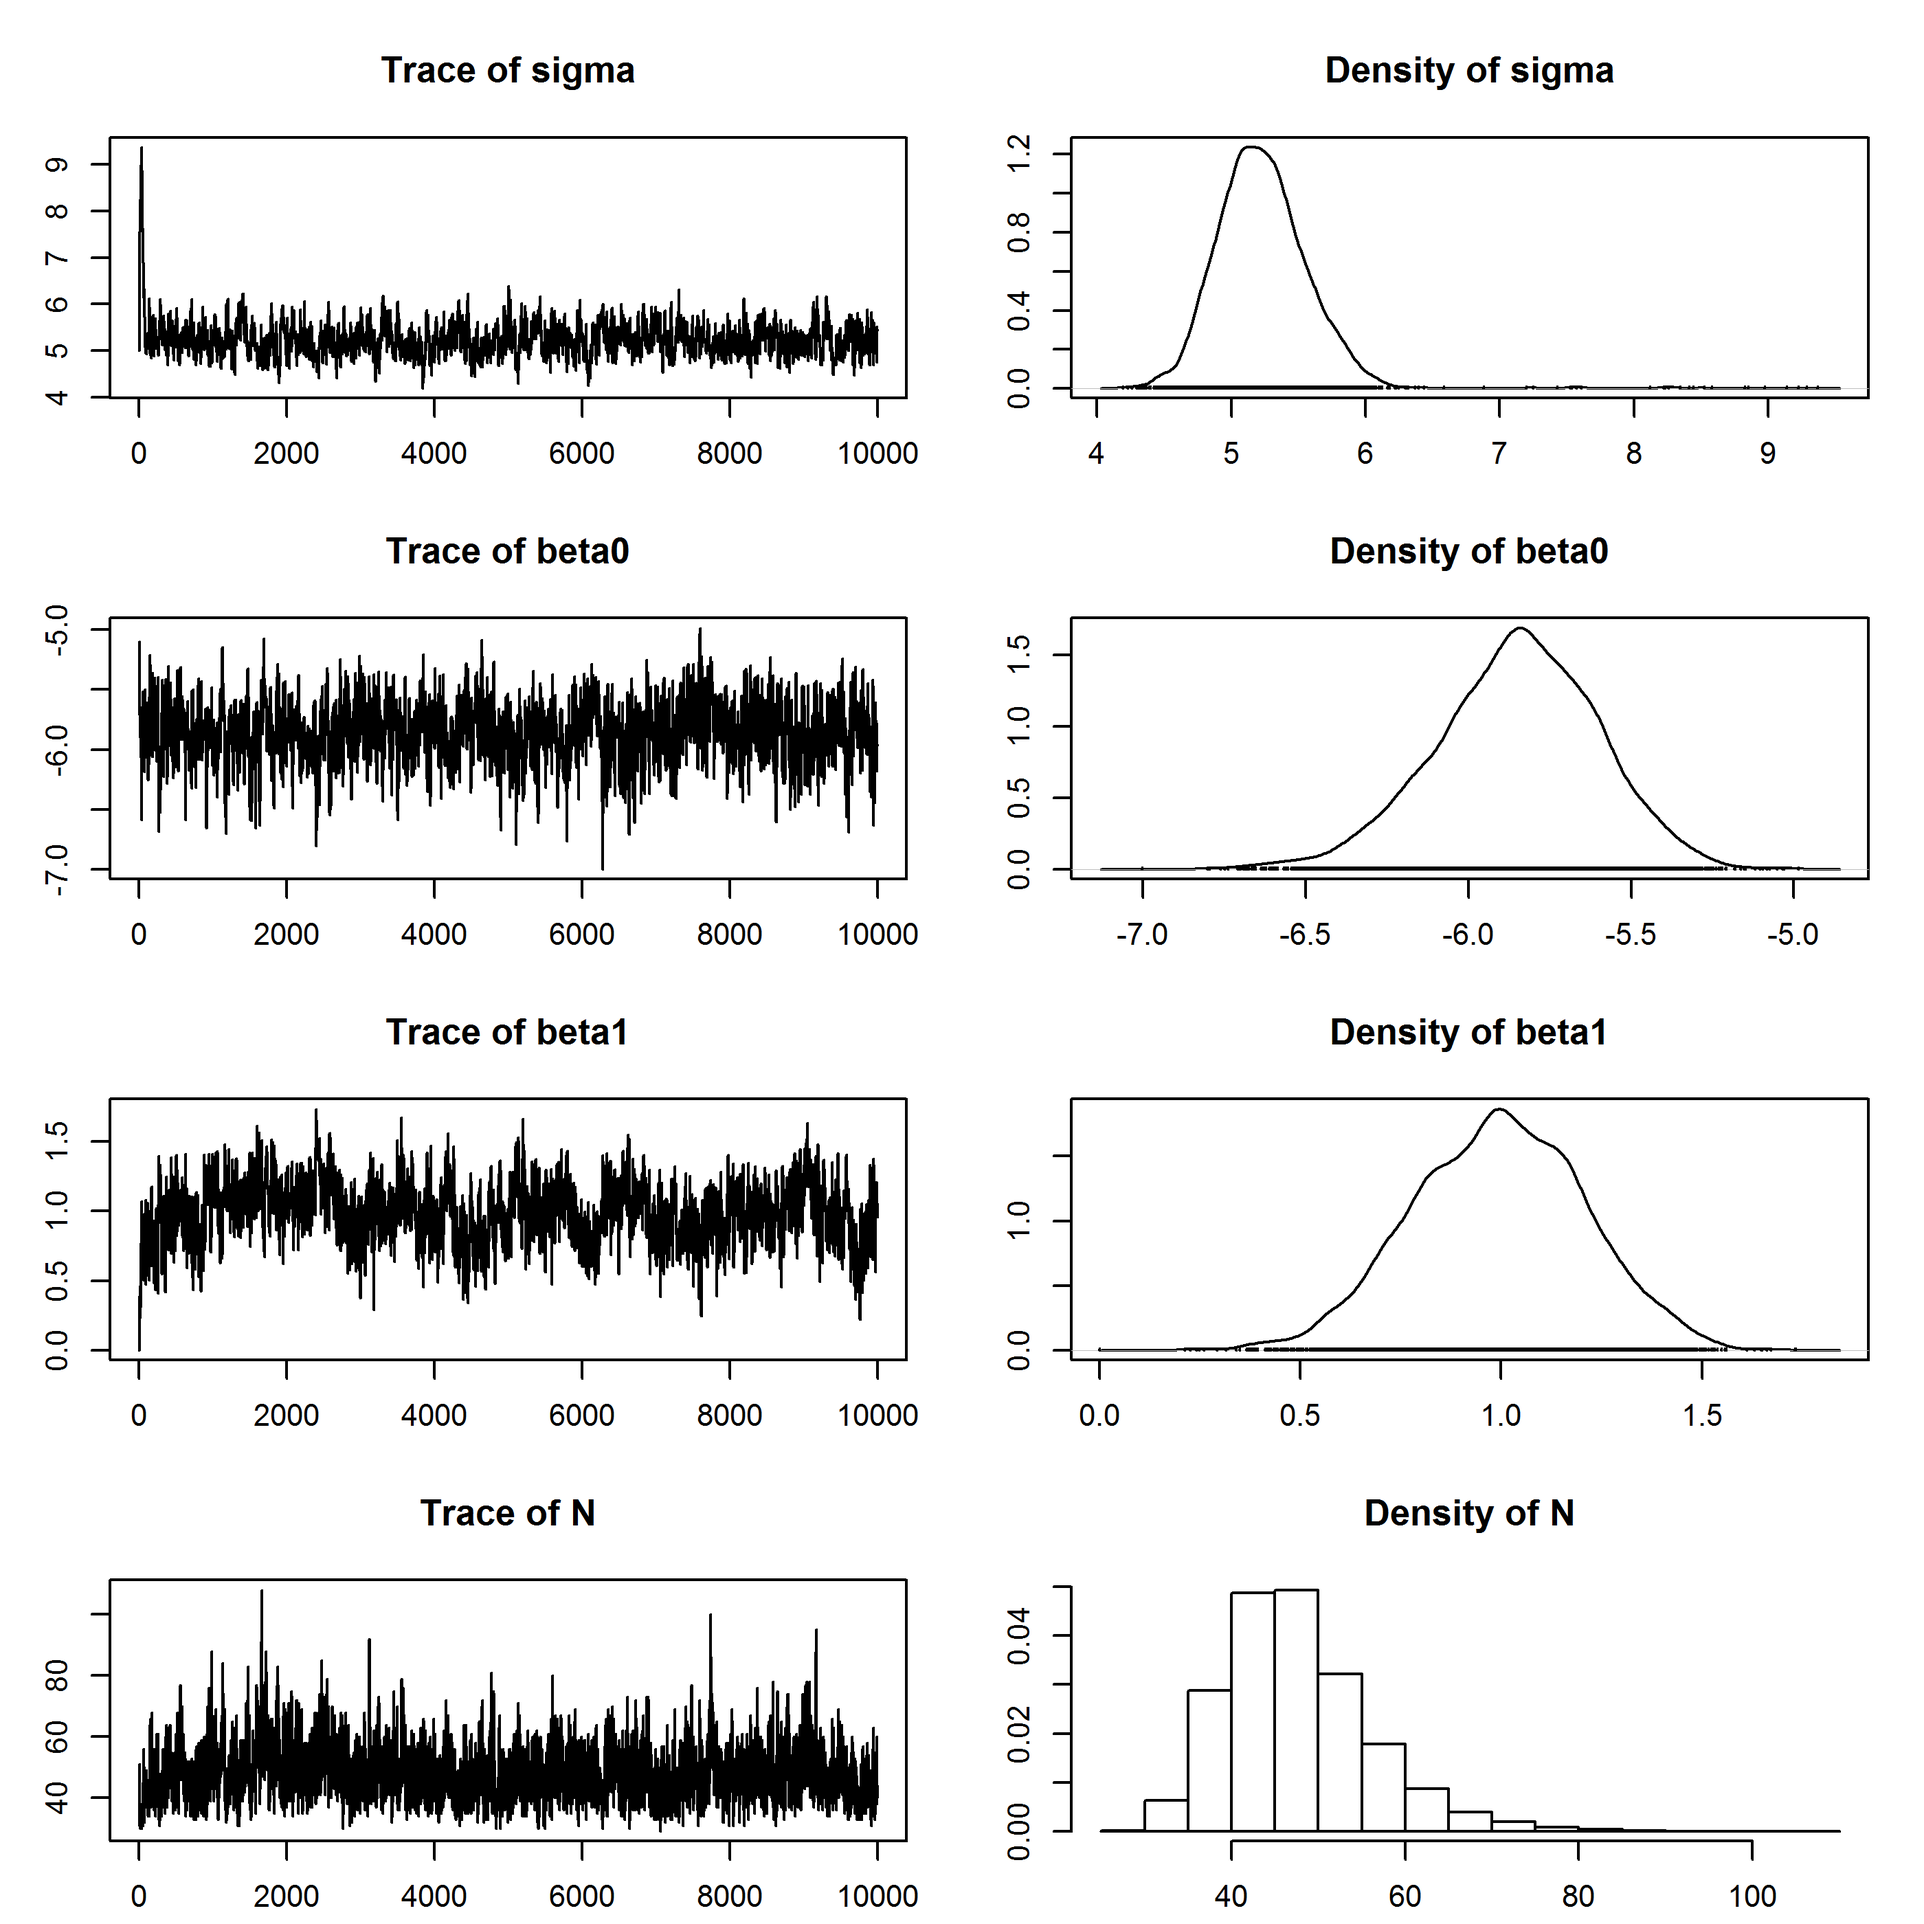
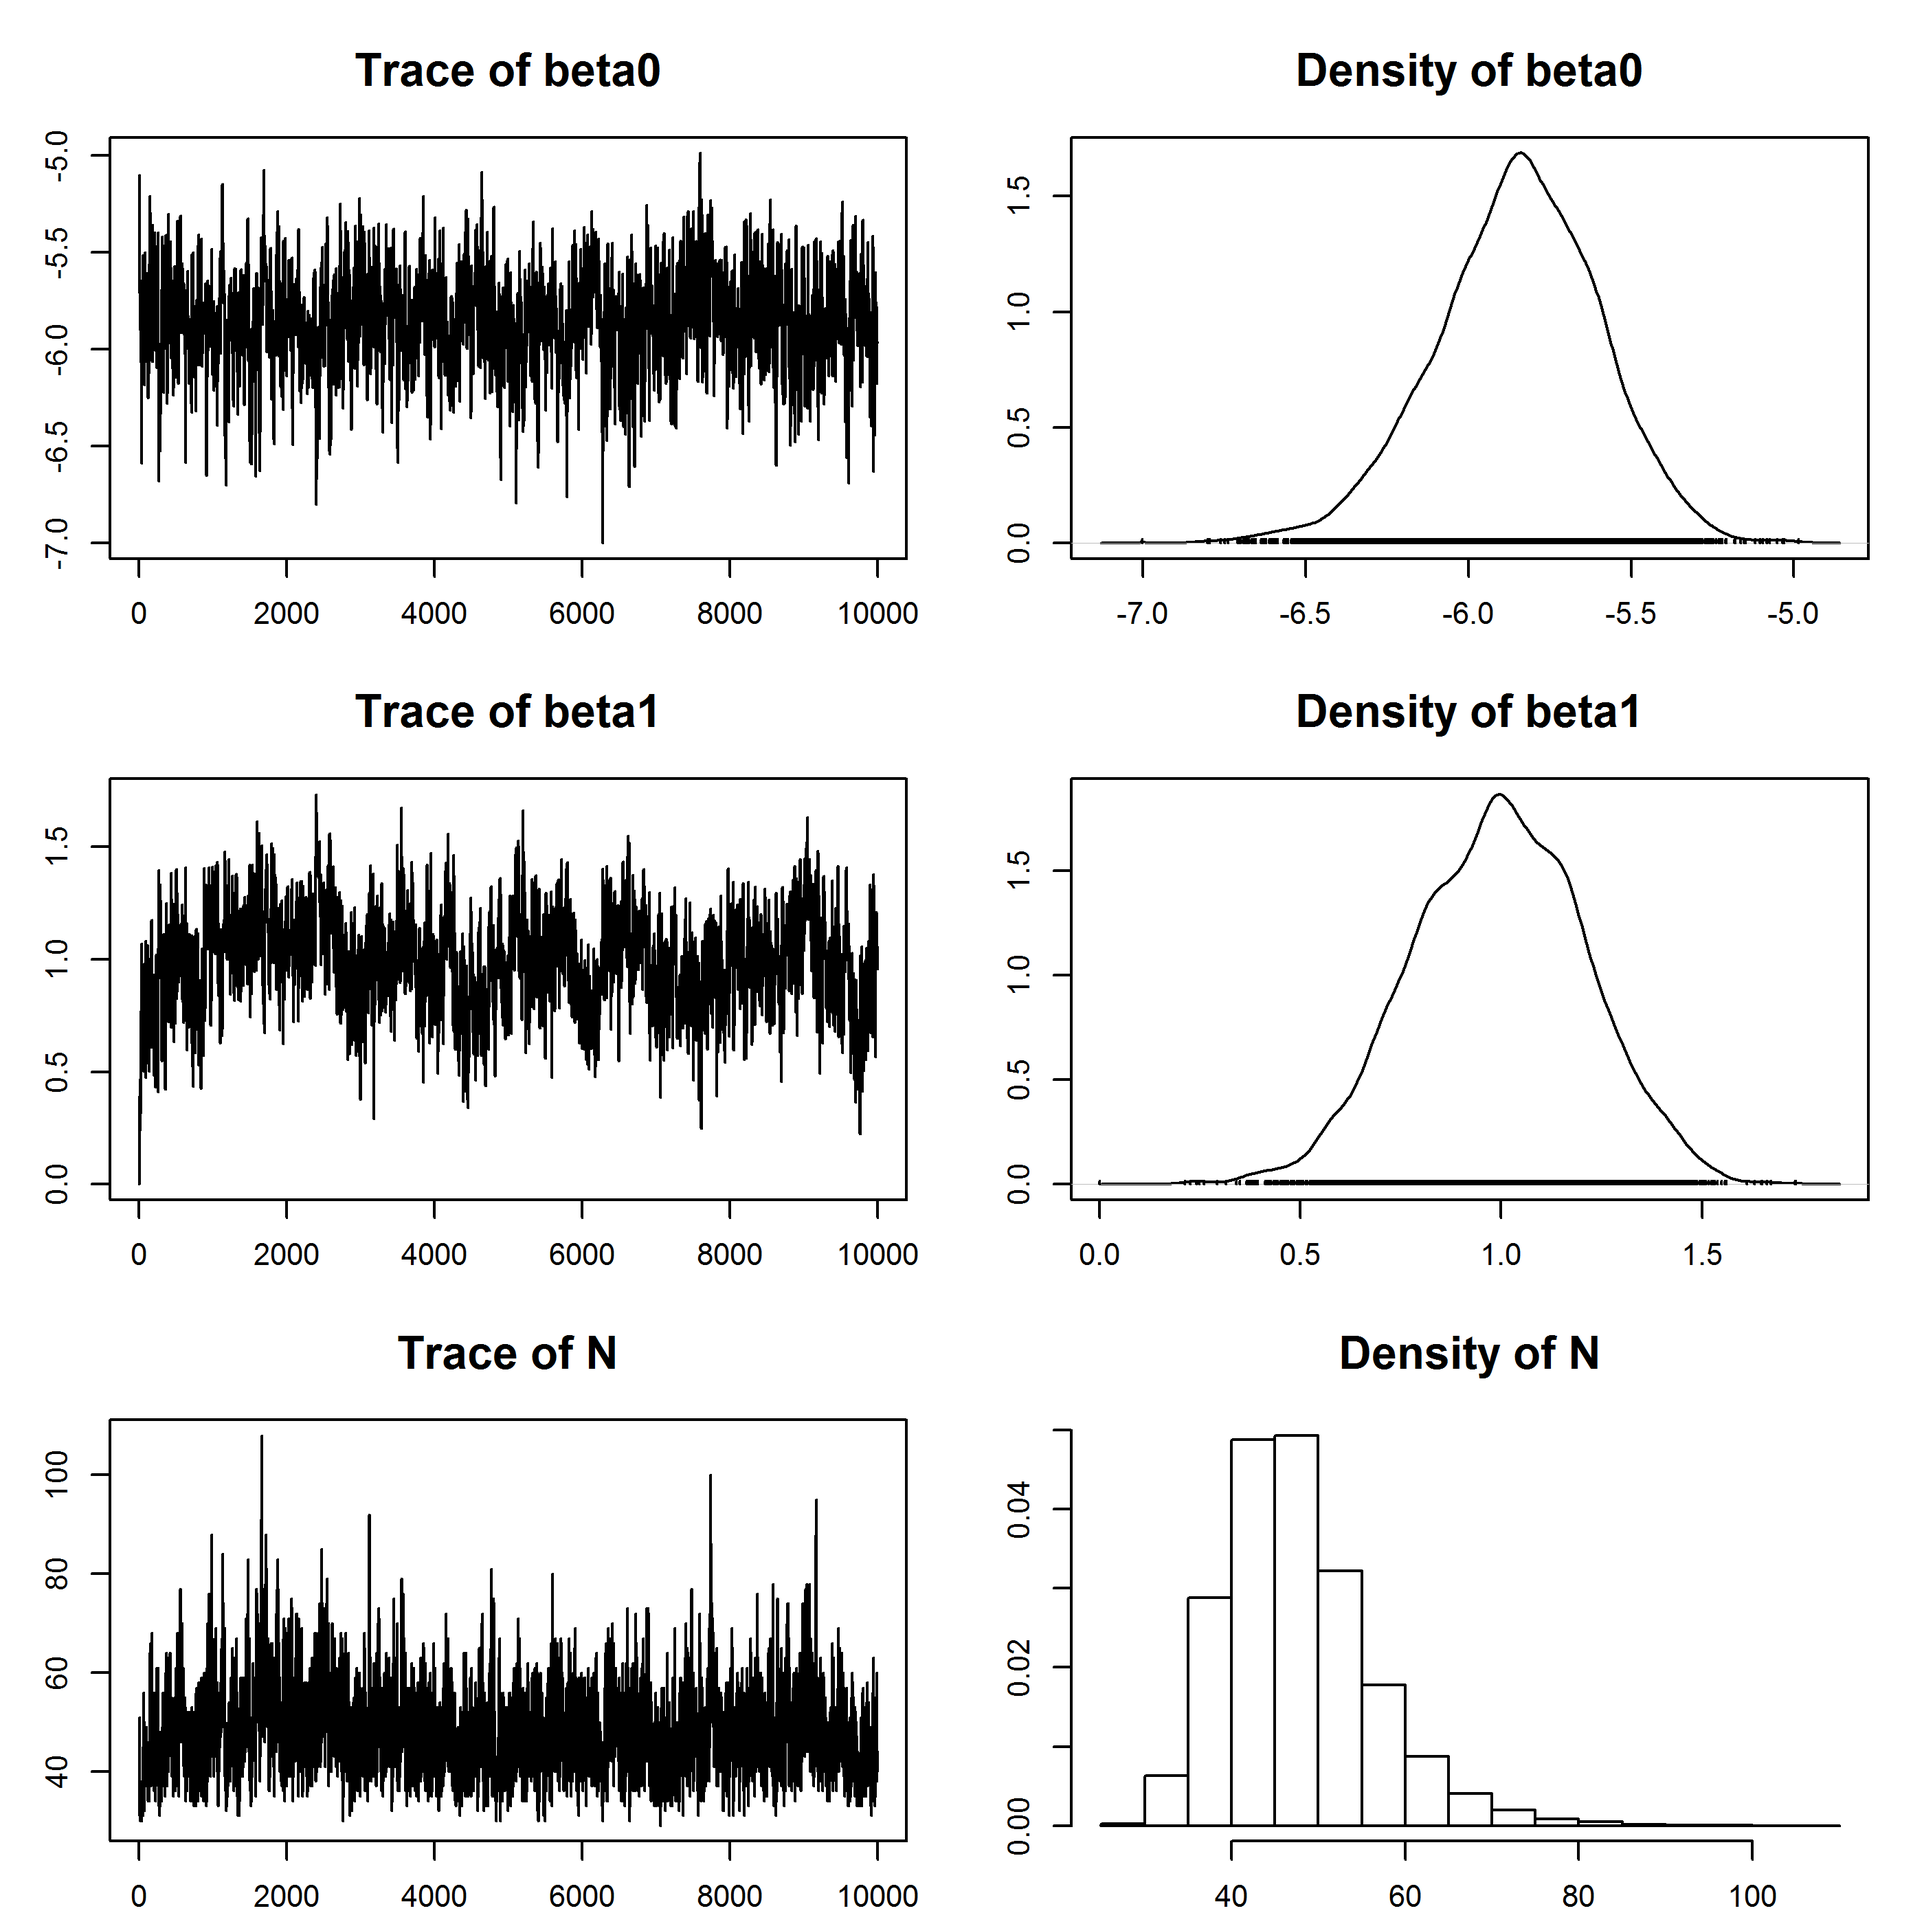
Ipp

diff --git a/Ch11/Ch11.tex b/Ch11/Ch11.tex
@@ -683,23 +683,24 @@ estimate these latent parameters.
 
 \subsection{Continuous space}
 
-One of the nice things about hierarchical models is that they
-%allow us to
-break a complex problem up into a series of simpler conditional
-sub-models. The problem faced in the analysis of SCR data is that the
-underlying point process is not observed, meaning that we need an
-observation model that describes how the observed data are result from
-the . Thus, in SCR, we can simply add the methods described above into a likelihood
-function or an MCMC algorithm to simulate the posterior distributions of $\beta$ conditional on the
-simulated values of $\mathbf{s}$. To demonstrate, we will continue with
-the previous example. Specifically, we will overlay a grid of
-traps on the map shown in Fig.~\ref{state-space.fig.hetero}. We will then
+% One of the nice things about hierarchical models is that they
+% %allow us to
+% break a complex problem up into a series of simpler conditional
+% sub-models. The problem faced in the analysis of SCR data is that the
+% underlying point process is not observed, and so an
+% observation model is needed to describe how the observed data result from
+% the latent activity centers. Thus, in SCR, we can simply add the methods described above into a likelihood
+% function or an MCMC algorithm to simulate the posterior distributions of $\beta$ conditional on the
+% simulated values of $\mathbf{s}$.
+
+In this example, we will use the same set of points simulated in the
+previous section to generate spatial capture-recapture
+data. Specifically, we overlay a grid of 49
+traps on the map shown in Fig.~\ref{state-space.fig.hetero} and
 simulate capture histories conditional upon the activity
 centers. Then, we will attempt to estimate the activity center
 locations as though we did not know where they were, as is the case in
-real applications.
-
-The following \R~code simulates encounter histories under a
+real applications. The following \R~code simulates encounter histories under a
 Poisson observation model (see Chapt. \ref{chapt.poisson-mn}), which could be appropriate in camera
 trapping studies or when using other methods in which animals could
 be detected multiple times at a trap during a single occasion.
@@ -707,106 +708,83 @@ be detected multiple times at a trap during a single occasion.
 \begin{samepage}
   \begin{small}
 \begin{verbatim}
-# Create trap locations
 xsp <- seq(20, 80, by=10)
 len <- length(xsp)
-X <- cbind(rep(xsp, each=len), rep(xsp, times=len))
-
-# Simulate capture histories, and augment the data
+X <- cbind(rep(xsp, each=len),
+           rep(xsp, times=len)) # trap locations
 ntraps <- nrow(X)
-K <- 5
-y <- array(NA, c(N, ntraps, K))
+K <- 5                          # occasions
+y <- array(NA, c(N, ntraps, K)) # capture data
 
-nz <- 80 # augmentation
+nz <- 80 # data augmentation
 M <- nz+nrow(y)
 yz <- array(0, c(M, ntraps, K))
-
-sigma <- 5  # half-normal scale parameter
+sigma <- 5  # scale parameter
 lam0 <- 1   # basal encounter rate
 lam <- matrix(NA, N, ntraps)
-
 set.seed(5588)
 for(i in 1:N) {
     for(j in 1:ntraps) {
+        # The object s was simulated in previous section
         distSq <- (s[i,1]-X[j,1])^2 + (s[i,2] - X[j,2])^2
         lam[i,j] <- exp(-distSq/(2*sigma^2)) * lam0
         y[i,j,] <- rpois(K, lam[i,j])
     }
 }
-table(y)
-c(N=N, n=sum(apply(y>0, 1, any)))
-yz[1:nrow(y),,] <- y # Fill
+yz[1:nrow(y),,] <- y # Fill data augmentation array
 \end{verbatim}
   \end{small}
 \end{samepage}
 
-Now that we have a simulated capture-recapture dataset $y$, and we have
-augmented it to create the new data object $yz$, we are ready to
+Now that we have a simulated capture-recapture dataset \texttt{y} and we have
+augmented it to create the new data object \texttt{yz}, we are ready to
 begin sampling from the posteriors. A commented Gibbs sampler written
 in \R~is available in the accompanying \R~package \scrbook~(see
-?scrIPP).
-\begin{comment} see Ch 7 MCMC for SCR and cite some section of that \end{comment}
-% There are two small parts of the
-% \R~code that distinguish it from previous code we have shown to
-% fit homogeneous point processes. First, we need to update the parameter
-% ${\bf \beta}$ conditional on all other parameters in the model. The code to
-% do so is: %\begin{comment} need cite to Ch 2 or 7 on MCMC for this \end{comment}
-% \begin{small}
-% \begin{verbatim}
-% # Denominator of f(x, beta). Integral of mu(x, beta) over space
-% D1 <- cuhre(2, 1, mu, lower=c(xlims[1], ylims[1]),
-%             upper=c(xlims[2], ylims[2]), beta=beta1)$value
-% # Compute the denominator again using a proposed beta1
-% beta1.cand <- rnorm(1, beta1, tune[3])
-% D1.cand <- cuhre(2, 1, mu, lower=c(xlims[1], ylims[1]),
-%                  upper=c(xlims[2], ylims[2]), beta=beta1.cand)$value
-% # Compute log(f(x))
-% ll.beta1 <- sum(  beta1*elev.fn.v(S) - log(D1) )
-% ll.beta1.cand <- sum( beta1.cand*elev.fn.v(S) - log(D1.cand) )
-% if(runif(1) < exp(ll.beta1.cand - ll.beta1) )  {
-%      beta1<-beta1.cand
-% }
-% \end{verbatim}
-% \end{small}
-% Next, we need to put the new prior on the activity centers:
-% \begin{small}
-% \begin{verbatim}
-% # Compute the prior for s_i and a candidate. denominator is constant
-% prior.S <- beta1*elev(S[i,1], S[i,2]) # - log(D1)
-% prior.S.cand <- beta1*elev(Scand[1] + Scand[2]) # - log(D1)
-% if(runif(1)< exp((ll.S.cand+prior.S.cand) - (ll.S+prior.S))) {
-%     S[i,] <- Scand
-%     lam <- lam.cand
-%     D[i,] <- dtmp
-%     }
-% \end{verbatim}
-% \end{small}
-We can apply this modified sampler to our data using the
-following \R~commands:
-\begin{small}
+\texttt{?scrIPP}). This function is not meant to be an all purpose
+tool for fitting SCR models using MCMC---it is primarily presented so
+that interested readers can better understand the computational
+aspects of the problem and can modify it for their purposes.
+The function can be used as so:
+\begin{samepage}
+  \begin{small}
 \begin{verbatim}
 set.seed(3434)
-fm1 <- scrIPP(yz, X, M, 6000, xlims=c(0,1), ylims=c(0,1),
-            tune=c(0.003, 0.08, 0.3, 0.07) )
+fm1 <- scrIPP(yz, X, M, 10000, xlims=c(0,100), ylims=c(0,100),
+              space.cov=elev.fn,
+              tune=c(0.4, 0.2, 0.3, 0.3, 7))
 plot(mcmc(fm1$out))
-rejectionRate(mcmc(fm1$out))
 \end{verbatim}
-\end{small}
-We obtain posterior distributions that are summarized in
-Table~\ref{state-space.tab.simIPP}.
-%Mixing is good, and as usual,
-%life is very nice when we are working with simulated data.
-
+  \end{small}
+\end{samepage}
+which requests 10000 posterior samples and estimates the effect of the
+spatial covariate, elevation, on density. Note that any spatial
+covariate that returns a real value for any location in the
+state-space can be supplied using the \texttt{space.cov} argument. The resulting
+trace plots of the Markov chains and the posterior distributions are
+shown in Fig.~\ref{state-space.fig.fm1post}. The chains appear to
+converge rapidly but may need to be run longer to reduce Monte Carlo
+error.
 
 \begin{figure}
   \centering
-  \includegraphics[width=\textwidth]{Ch11/figs/fm1p}
+  \includegraphics[width=0.9\textwidth]{Ch11/figs/fm1p}
   \caption{Trace plots and posterior distributions from MCMC analysis
     of SCR model with inhomogeneous point process. Analysis was
     conducted using the \texttt{scrIPP} function in the accompanying
     \R~package.}
   \label{fig:state-space.fig.fm1post}
 \end{figure}
+
+For comparison, we also fit this model using $\texttt{secr}$. See the
+help file \texttt{Ch-IPP} in \scrbook~ for \R~commands necessary to
+prepare the data for \secr. The results are presented in
+Table~\ref{state-space.tab.simIPP}, and we see that the point
+estimates and confidence/credible intervals are quite similar from the
+MCMC and maximum likelihood (ML) analyses. One exception is that the
+confidence intervals for $N$ and the expected value of $N$ are
+somewhat different. This may result from the fact that the MCMC
+analysis assumed a binomial prior for $N$, whereas the ML analysis
+assumed a Poisson prior.
 
 \begin{table}%[b]
 \centering
@@ -820,20 +798,19 @@ for $N$ whereas a Poisson prior was assumed for the \texttt{secr} analysis.}
 Parameter 	& Method 	& Estimate 	& SD/SE 	& Lower 	& Upper \\
 \hline
  $\sigma=5$ 	& MCMC 	&  5.232 	&  0.310 	&  4.681 	&  5.858 \\
-  	& ML 	&  5.237 	&  0.303 	&  4.676 	&  5.866 \\
+  	        & ML 	&  5.237 	&  0.303 	&  4.676 	&  5.866 \\
  $\lambda_0=1$ 	& MCMC 	&  0.802 	&  0.119 	&  0.595 	&  1.049 \\
-  	& ML 	&  0.781 	&  0.115 	&  0.586 	&  1.041 \\
+  	        & ML 	&  0.781 	&  0.115 	&  0.586 	&  1.041 \\
 % $\beta_1=1$ 	& MCMC 	&  0.985 	&  0.209 	&  0.575 	&  1.378 \\
-%  	& ML 	&  1.037 	&  0.274 	&  0.501 	&  1.574 \\
+%  	        & ML 	&  1.037 	&  0.274 	&  0.501 	&  1.574 \\
  $N=41$ 	& MCMC 	& 47.615 	&  8.041 	& 35.000 	& 66.000 \\
-  	& ML 	& 47.778 	&  7.744 	& 37.074 	& 68.830 \\
+  	        & ML 	& 47.778 	&  7.744 	& 37.074 	& 68.830 \\
  $\mathbb{E}[N]=39.9$ 	& MCMC 	& 47.551 	& 10.992 	& 29.837 	& 71.332 \\
-  	& ML 	& 47.778 	& 10.380 	& 31.363 	& 72.784 \\
+  	        & ML 	& 47.778 	& 10.380 	& 31.363 	& 72.784 \\
 \hline
 \end{tabular}
 \label{state-space.tab.simIPP}
 \end{table}
-
 
 Fitting continuous space IPP models is somewhat
 difficult in \bugs~because our prior ``IPP'' is not one of the
@@ -883,43 +860,42 @@ by~\ref{eq.pdf.ipp.d}, which is the probability that an individual's
 activity center is located at pixel $x$. \verb+Sgrid+ is the
 matrix of coordinates for each pixel.
 
-%\begin{panel}[h!]
-%\centering
-%\rule[0.15in]{\textwidth}{.03in}
+\begin{panel}%[h!]
+\centering
+\rule[0.15in]{\textwidth}{.03in}
 \begin{small}
 \begin{verbatim}
 model{
-sigma ~ dunif(0, 1)
+sigma ~ dunif(0, 10)
 lam0 ~ dunif(0, 5)
-beta ~ dnorm(0,0.1)
-psi ~ dbeta(1,1)
-for(x in 1:nPix) {
-  theta[x] <- exp(beta*elevation[j])
-  probs[x] <- theta[j]/sum(theta[])
+beta0 ~ dnorm(0, 0.01) #log(D) # D=density defined below
+beta1 ~ dnorm(0, 0.01)
+for(j in 1:nPix) {
+  mu[j] <- exp(beta0 + beta1*elevation[j])
+  probs[j] <- mu[j]/sum(mu[])
 }
+psi <- sum(mu[])/M
 for(i in 1:M) {
   w[i] ~ dbern(psi)
   s[i] ~ dcat(probs[])
   x0g[i] <- Sgrid[s[i],1]
   y0g[i] <- Sgrid[s[i],2]
   for(j in 1:ntraps) {
-    dist[i,j] <- sqrt(pow(x0g[i]-grid[j,1],2) +
-                      pow(y0g[i]-grid[j,2],2))
-    lambda[i,j] <- lam0*exp(-dist[i,j]*dist[i,j] /
-                            (2*sigma*sigma)) * w[i]
+    dist[i,j] <- sqrt(pow(x0g[i]-grid[j,1],2) + pow(y0g[i]-grid[j,2],2))
+    lambda[i,j] <- lam0*exp(-dist[i,j]*dist[i,j]/(2*sigma*sigma)) * w[i]
     y[i,j] ~ dpois(lambda[i,j])
     }
   }
 N <- sum(w[])
-Density <- N/1 # unit square
+D <- N/1 # 1ha state-space
 }
 \end{verbatim}
 \end{small}
-%\rule[0.15in]{\textwidth}{.03in}
-%\caption{\bugs~code for fitting inhomogeneous point process model in
-%  discrete space.}
-%\label{ch9.panel1}
-%\end{panel}
+\rule[0.15in]{\textwidth}{.03in}
+\caption{\bugs~code for fitting inhomogeneous point process model in
+  discrete space.}
+\label{ch9.panel1}
+\end{panel}
 
 This model can also be fit in \secr, which refers
 to the raster data as a ``habitat mask''. \R~code to
